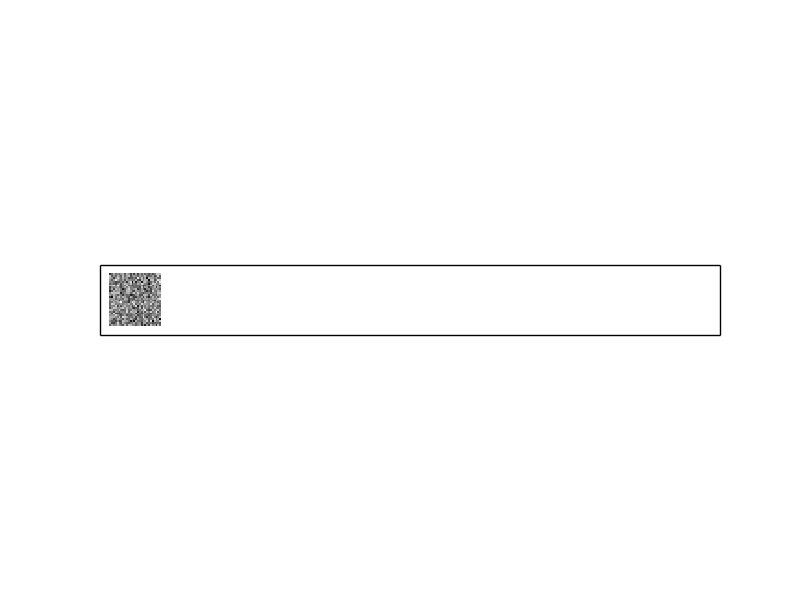
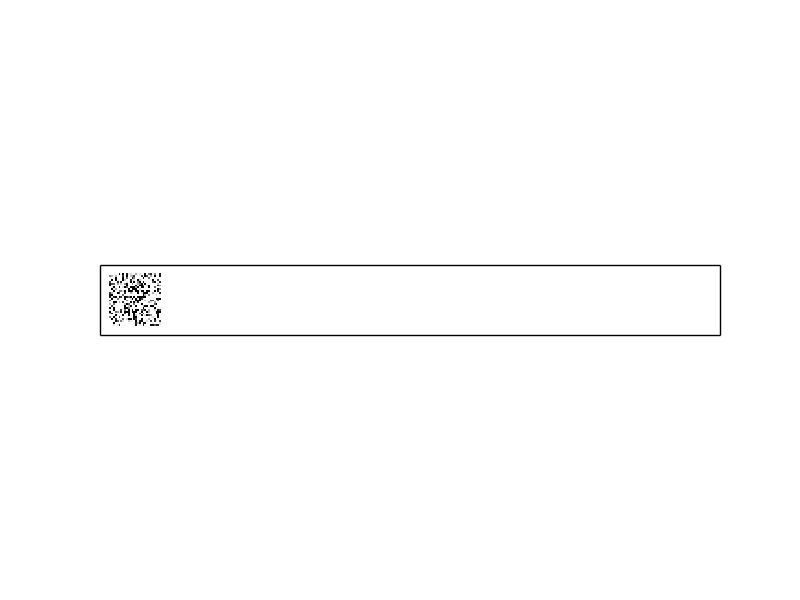
NN+grad running

Changed region(s): [[0.125, 0.45, 0.2188, 0.57]]

diff --git a/experiments/11-test-grad-asc/2-mnist-rec/main.py b/experiments/11-test-grad-asc/2-mnist-rec/main.py
@@ -14,7 +14,7 @@ from autopaint.util import load_mnist
 from autopaint.aevb import lower_bound
 from autopaint.util import WeightsParser, load_and_pickle_binary_mnist,build_logprob_mvn
 from autopaint.neuralnet import make_binary_nn,make_gaussian_nn
-from autopaint.grad_asc import build_grad_sampler
+from autopaint.grad_asc import build_mult_grad_sampler
 param_scale = 0.1
 samples_per_image = 1
 latent_dimensions = 2
@@ -29,12 +29,13 @@ def lower_bound(weights,encode,decode_log_like,N_weights_enc,train_images,sample
     log_normal = build_logprob_mvn(np.zeros(latent_dimensions), np.eye(latent_dimensions),pseudo_inv = True)
     def log_lik_func(z):
         return decode_log_like(dec_w,z,train_images)+log_normal(z)
-    samples, loglik_estimates, entropy_estimates = encode(enc_w,log_lik_func,rs,1)
+    samples, loglik_estimates, entropy_estimates = encode(weights,train_images,log_lik_func,rs,1)
     loglik_estimate = np.mean(loglik_estimates)
     entropy_estimate = np.mean(entropy_estimates)
     print "ll average", loglik_estimate
     print "ent average", entropy_estimate
     return loglik_estimate + entropy_estimate
+
 
 
 
@@ -44,26 +45,30 @@ def run_aevb(train_images):
     # Create aevb function
     # Training parameters
 
+
+
     D = train_images.shape[1]
-
-    dec_layers = [latent_dimensions, hidden_units, D]
-
-    init_mean = np.zeros(latent_dimensions)
-    init_log_stddevs = np.log(.1*np.ones(latent_dimensions))
-    init_log_stepsize = np.log(0.01)
-
     rs = np.random.npr.RandomState(0)
-    sample_and_run_grad, parser = build_grad_sampler(latent_dimensions,10, approx=True)
-    N_weights_dec, decoder, decoder_log_like = make_binary_nn(dec_layers)
-    N_weights_enc = len(parser)
-    encoder = sample_and_run_grad
-    parser.add_shape('decoding weights', (N_weights_dec,))
+    sample_and_run_grad = build_mult_grad_sampler(latent_dimensions,1, approx=True)
 
-    params = np.zeros(len(parser))
-    parser.put(params, 'mean', init_mean)
-    parser.put(params, 'log_stddev', init_log_stddevs)
-    parser.put(params, 'log_stepsize', init_log_stepsize)
-    parser.put(params, 'decoding weights',rs.randn(N_weights_dec) * param_scale)
+    enc_layers = [D, hidden_units, 2*latent_dimensions]
+    dec_layers = [latent_dimensions, hidden_units, D]
+    N_weights_NN, encoder_NN, encoder_log_like_NN = make_gaussian_nn(enc_layers)
+    N_weights_dec, decoder, decoder_log_like = make_binary_nn(dec_layers)
+    encoder = sample_and_run_grad
+
+    #Create parser
+    parser = WeightsParser()
+    parser.add_shape('encoding network weights', (N_weights_NN,))
+    N_weights_enc = len(parser)
+    parser.add_shape('decoding weights', (N_weights_dec,))
+    params = rs.randn(len(parser)) * param_scale
+
+    def two_part_encode(params,data,log_lik_func,rs,num_samples):
+        network_weights = parser.get(params, 'encoding network weights')
+        (mus,log_sigs) = encoder_NN(network_weights,data)
+        sigs = np.exp(log_sigs)
+        return sample_and_run_grad(mus,sigs,.01, log_lik_func,rs, num_samples)
 
     # Optimize aevb
     batch_size = 100
@@ -75,7 +80,7 @@ def run_aevb(train_images):
     def batch_value_and_grad(weights, iter):
         iter = iter % len(batch_idxs)
         cur_data = train_images[batch_idxs[iter]]
-        return lower_bound(weights,encoder,decoder_log_like,N_weights_enc,cur_data,samples_per_image,latent_dimensions,rs)
+        return lower_bound(weights,two_part_encode,decoder_log_like,N_weights_enc,cur_data,samples_per_image,latent_dimensions,rs)
     lb_grad = grad(batch_value_and_grad)
 
     def callback(params, i, grad):

diff --git a/autopaint/grad_asc.py b/autopaint/grad_asc.py
@@ -8,7 +8,7 @@ from autograd import elementwise_grad
 
 from autopaint.util import WeightsParser, \
     entropy_of_a_diagonal_gaussian, entropy_of_a_spherical_gaussian, \
-    sum_entropy_lower_bound, exact_log_det, approx_log_det
+    sum_entropy_lower_bound, exact_log_det, approx_log_det,entropy_of_diagonal_gaussians
 
 
 def gradient_step_track_entropy(gradfun, xs, stepsize, rs, approx):
@@ -32,14 +32,13 @@ def gradient_step_track_entropy(gradfun, xs, stepsize, rs, approx):
     return xs, delta_entropy
 
 
-def gradient_ascent_entropic(gradfun, entropies, xs, stepsizes, rs, callback, approx):
+def gradient_ascent_entropic(gradfun, entropies, xs, stepsizes,num_steps, rs, callback, approx):
     (N, D) = xs.shape
-    num_steps = len(stepsizes)
 
     for t in xrange(num_steps):
         if callback: callback(xs=xs, t=t, entropy=delta_entropy)
         grad_step_start = time.time()
-        xs, delta_entropy = gradient_step_track_entropy(gradfun, xs, stepsizes[t], rs, approx=approx)
+        xs, delta_entropy = gradient_step_track_entropy(gradfun, xs, stepsizes, rs, approx=approx)
         # Update entropy estimate.
         entropies += delta_entropy
 
@@ -64,10 +63,31 @@ def build_grad_sampler( D, num_steps, approx):
         init_xs = mean + rs.randn(num_samples, D) * stddevs
         samples, entropy_estimates = \
             gradient_ascent_entropic(gradfun, entropies=initial_entropies, xs=init_xs,
-                                     stepsizes=stepsizes,
+                                     stepsizes=stepsizes,num_steps=num_steps,
                                      rs=rs, callback=callback, approx=approx)
 
         loglik_estimates = loglik_func(samples)
         return samples, loglik_estimates, entropy_estimates
 
     return sample_and_run_grad, parser
+
+
+def build_mult_grad_sampler( D, num_steps, approx):
+
+
+
+
+    def sample_and_run_grad(means,stddevs,stepsize, loglik_func,rs, num_samples, callback=None):
+        gradfun = elementwise_grad(loglik_func)
+        initial_entropies = entropy_of_diagonal_gaussians(stddevs)
+        assert (rs.randn(means.shape[0], D) * stddevs).shape == means.shape
+        init_xs = means + rs.randn(means.shape[0], D) * stddevs
+        samples, entropy_estimates = \
+            gradient_ascent_entropic(gradfun, entropies=initial_entropies, xs=init_xs,
+                                     stepsizes=stepsize,num_steps=num_steps,
+                                     rs=rs, callback=callback, approx=approx)
+
+        loglik_estimates = loglik_func(samples)
+        return samples, loglik_estimates, entropy_estimates
+
+    return sample_and_run_grad
